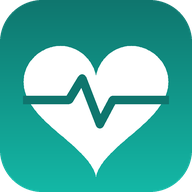
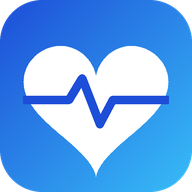
Cambio de identidad: MedicSoft → Latidia, paleta Azul océano
- Nombre visible, título, manifiesto, pantalla de login, reporte PDF,
  notificaciones y nombres de archivos exportados
- Paleta Azul océano (#1d4ed8 / #38bdf8) en modo claro y oscuro,
  neutros gris azulado; íconos PNG, favicon y theme-color regenerados
- Identificadores internos sin cambios para preservar datos: base
  IndexedDB, rutas de Firestore, formato de respaldo, UID de eventos .ics
- Service worker: caché latidia-v5

diff --git a/js/app.js b/js/app.js
@@ -1,4 +1,4 @@
-/* MedicSoft — aplicación principal */
+/* Latidia — aplicación principal */
 (function () {
   'use strict';
   const { DB, pad, dateKey, timeKey, at, uid, dosesForDate, bpCategory } = MS;
@@ -197,7 +197,7 @@
     const changed = currentRoute !== route.id;
     currentRoute = route.id;
     $('#pageTitle').textContent = route.title;
-    document.title = `${route.title} · MedicSoft`;
+    document.title = `${route.title} · Latidia`;
     $$('[data-route]').forEach(a => a.classList.toggle('active', a.dataset.route === route.id));
     const view = $('#view');
     view.innerHTML = route.render();
@@ -235,7 +235,7 @@
       banners.push(`<div class="banner">${icon('bell')}<div class="item-body"><b>Activa las notificaciones</b><div class="small muted">Para recibir recordatorios de medicamentos, citas y tomas de presión.</div></div><button class="btn small" data-act="enable-notif">Activar</button></div>`);
     }
     if (!isStandalone() && state.installEvt) {
-      banners.push(`<div class="banner">${icon('install')}<div class="item-body"><b>Instala MedicSoft</b><div class="small muted">Acceso rápido y notificaciones en tu celular o computadora.</div></div><button class="btn small" data-act="install">Instalar</button></div>`);
+      banners.push(`<div class="banner">${icon('install')}<div class="item-body"><b>Instala Latidia</b><div class="small muted">Acceso rápido y notificaciones en tu celular o computadora.</div></div><button class="btn small" data-act="install">Instalar</button></div>`);
     }
 
     const cat = last && bpCategory(last.sys, last.dia);
@@ -251,7 +251,7 @@
             <div class="big num" style="margin:14px 0 6px">${last.sys}/${last.dia} <small>mmHg</small></div>
             <div class="row">${last.pulse ? `<span class="chip">${icon('pulse')} ${last.pulse} lpm</span>` : ''}<span class="chip"><span class="dot" style="color:${cat.color}"></span>${cat.label}</span></div>`
             : `<div style="margin:18px 0" class="muted">Aún no tienes registros. Registra tu primera toma.</div>`}
-          <div style="margin-top:16px;position:relative;z-index:1"><button class="btn" style="background:#fff;color:#0f766e" data-act="new-vital">${icon('plus')} Registrar toma</button></div>
+          <div style="margin-top:16px;position:relative;z-index:1"><button class="btn" style="background:#fff;color:#1d4ed8" data-act="new-vital">${icon('plus')} Registrar toma</button></div>
         </div>
         <div class="grid stats">
           <div class="card stat">${statIc('trend', 'var(--sys)')}<div><div class="label">Promedio 7 días</div><div class="value num">${wBP.length ? `${avg(wBP.map(v => v.sys))}/${avg(wBP.map(v => v.dia))}` : '—'}</div></div></div>
@@ -732,7 +732,7 @@
   const icsLocal = d => `${d.getFullYear()}${pad(d.getMonth() + 1)}${pad(d.getDate())}T${pad(d.getHours())}${pad(d.getMinutes())}00`;
   const icsStamp = () => new Date().toISOString().replace(/[-:]/g, '').replace(/\.\d+/, '');
   const alarm = (trigger, text) => ['BEGIN:VALARM', 'ACTION:DISPLAY', `TRIGGER:${trigger}`, `DESCRIPTION:${icsEsc(text)}`, 'END:VALARM'];
-  const icsWrap = events => ['BEGIN:VCALENDAR', 'VERSION:2.0', 'PRODID:-//MedicSoft//ES', 'CALSCALE:GREGORIAN', ...events.flat(), 'END:VCALENDAR'].join('\r\n');
+  const icsWrap = events => ['BEGIN:VCALENDAR', 'VERSION:2.0', 'PRODID:-//Latidia//ES', 'CALSCALE:GREGORIAN', ...events.flat(), 'END:VCALENDAR'].join('\r\n');
 
   function apptEvent(a) {
     const s = at(a.date, a.time || '09:00'), e = new Date(s.getTime() + 3600000);
@@ -1020,7 +1020,7 @@
       <div class="stack-v">
         <div class="card">
           <div class="card-head"><h3>${icon('install')} Instalación</h3><span class="chip" style="${isStandalone() ? 'color:var(--ok)' : ''}">${isStandalone() ? 'Instalada' : 'En navegador'}</span></div>
-          ${state.installEvt ? `<button class="btn block" data-act="install">${icon('install')} Instalar MedicSoft</button>` :
+          ${state.installEvt ? `<button class="btn block" data-act="install">${icon('install')} Instalar Latidia</button>` :
             isStandalone() ? '<div class="muted small">Estás usando la app instalada. ✅</div>' :
             `<div class="small muted">${isIOS() ? 'Safari: <b>Compartir</b> → <b>Agregar a pantalla de inicio</b>.' : 'Chrome/Edge: menú ⋮ → <b>Instalar aplicación</b> o el ícono de instalar en la barra de direcciones.'}</div>`}
         </div>
@@ -1039,7 +1039,7 @@
             <button class="btn ghost small" style="color:var(--danger)" data-act="wipe">${icon('trash')} Borrar todo</button></div>
         </div>
         <div class="card small muted">
-          <b style="color:var(--text)">MedicSoft</b> es una herramienta de registro personal y no es un dispositivo médico. Ante valores alarmantes o síntomas, consulta a tu médico o acude a urgencias.
+          <b style="color:var(--text)">Latidia</b> es una herramienta de registro personal y no es un dispositivo médico. Ante valores alarmantes o síntomas, consulta a tu médico o acude a urgencias.
         </div>
       </div>
     </div>`;
@@ -1123,7 +1123,7 @@
     'dose-skip': async el => { await MS.markTaken(el.dataset.key, 'skipped'); await load(); render(); },
     'meds-ics': () => {
       const active = state.meds.filter(m => m.active !== false);
-      download('medicamentos-medicsoft.ics', icsWrap(active.flatMap(medEvents)), 'text/calendar');
+      download('medicamentos-latidia.ics', icsWrap(active.flatMap(medEvents)), 'text/calendar');
       toast('Abre el archivo para añadir las alarmas a tu calendario');
     },
 
@@ -1137,7 +1137,7 @@
     'appts-ics': () => {
       const nowKey = today() + 'T' + timeKey(new Date());
       const list = state.appts.filter(a => !a.done && (a.date + 'T' + (a.time || '23:59')) >= nowKey);
-      download('citas-medicsoft.ics', icsWrap(list.map(apptEvent)), 'text/calendar');
+      download('citas-latidia.ics', icsWrap(list.map(apptEvent)), 'text/calendar');
     },
     calsel: el => {
       state.calSel = el.dataset.d;
@@ -1164,7 +1164,7 @@
     'enable-notif': enableNotifications,
     'test-notif': async () => {
       const reg = await navigator.serviceWorker.ready;
-      await reg.showNotification('🔔 Notificación de prueba', { body: '¡Las notificaciones de MedicSoft funcionan!', icon: 'icons/icon-192.png', badge: 'icons/badge-96.png', tag: 'test' });
+      await reg.showNotification('🔔 Notificación de prueba', { body: '¡Las notificaciones de Latidia funcionan!', icon: 'icons/icon-192.png', badge: 'icons/badge-96.png', tag: 'test' });
     },
     install: async () => {
       if (!state.installEvt) return;
@@ -1177,7 +1177,7 @@
       if (!(await confirmDlg('Cerrar sesión', 'Tus datos seguirán guardados en tu cuenta. En este dispositivo se borrará la copia local y dejarás de recibir recordatorios hasta que vuelvas a iniciar sesión.', 'Cerrar sesión'))) return;
       await Cloud.signOut();
     },
-    backup: async () => download(`respaldo-medicsoft-${today()}.json`, JSON.stringify(await DB.exportAll(), null, 1), 'application/json'),
+    backup: async () => download(`respaldo-latidia-${today()}.json`, JSON.stringify(await DB.exportAll(), null, 1), 'application/json'),
     demo: async () => {
       if (!(await confirmDlg('Datos de ejemplo', 'Se agregarán 30 días de lecturas, 2 medicamentos y 2 citas de ejemplo a tus datos.', 'Agregar'))) return;
       await loadDemo(); await load(); render(); toast('Datos de ejemplo cargados', 'check');
@@ -1277,7 +1277,7 @@
     const logIc = { med: 'pill', bp: 'heart', appt: 'calendar' };
     return `
       ${perm !== 'granted' ? `<div class="banner ${perm === 'denied' ? 'warn' : ''}">${icon('bell')}<div class="item-body small">${
-        perm === 'denied' ? 'Las notificaciones están bloqueadas. Habilítalas en la configuración del navegador o del iPhone (Ajustes → Notificaciones → MedicSoft).'
+        perm === 'denied' ? 'Las notificaciones están bloqueadas. Habilítalas en la configuración del navegador o del iPhone (Ajustes → Notificaciones → Latidia).'
         : perm === 'unsupported' ? (isIOS() && !isStandalone() ? 'En iPhone instala primero la app en la pantalla de inicio para recibir notificaciones.' : 'Este navegador no admite notificaciones.')
         : 'Activa las notificaciones para recibir tus recordatorios.'}</div>
         ${perm === 'default' ? `<button type="button" class="btn small" data-act="enable-notif">Activar</button>` : ''}</div>` : ''}
@@ -1373,7 +1373,7 @@
     const m = authMode;
     $('#auth').innerHTML = `
       <div class="card auth-card">
-        <div class="auth-brand"><span class="brand-logo">${LOGO}</span><h1>MedicSoft</h1>
+        <div class="auth-brand"><span class="brand-logo">${LOGO}</span><h1>Latidia</h1>
           <div class="muted small">Tu presión, medicamentos y citas médicas, sincronizados en todos tus dispositivos.</div></div>
         ${m === 'reset'
           ? `<h2 style="margin-bottom:6px">Recuperar contraseña</h2><p class="small muted" style="margin-top:0">Te enviaremos un enlace a tu correo para crear una nueva contraseña.</p>`
@@ -1441,7 +1441,7 @@
 
   function renderCloudError() {
     $('#auth').innerHTML = `<div class="card auth-card" style="text-align:center">
-      <div class="auth-brand"><span class="brand-logo">${LOGO}</span><h1>MedicSoft</h1></div>
+      <div class="auth-brand"><span class="brand-logo">${LOGO}</span><h1>Latidia</h1></div>
       <p><b>No se pudo conectar</b></p>
       <p class="muted small">Necesitas conexión a internet la primera vez que abres la app para iniciar sesión.</p>
       <button class="btn block" onclick="location.reload()">Reintentar</button></div>`;

diff --git a/css/styles.css b/css/styles.css
@@ -1,14 +1,14 @@
 /* ============ Tokens ============ */
 :root {
-  --bg: #f3f6f7;
+  --bg: #f3f6fa;
   --surface: #ffffff;
-  --surface-2: #eef3f4;
-  --border: #dde5e7;
-  --text: #0f1f23;
-  --muted: #5b6d72;
-  --primary: #0f766e;
-  --primary-2: #14b8a6;
-  --primary-soft: #d9f3ef;
+  --surface-2: #eef2f8;
+  --border: #dde3ec;
+  --text: #0f1a2b;
+  --muted: #5a6678;
+  --primary: #1d4ed8;
+  --primary-2: #38bdf8;
+  --primary-soft: #dbeafe;
   --on-primary: #ffffff;
   --danger: #dc2626;
   --danger-soft: #fde6e6;
@@ -23,7 +23,7 @@
   --bp-h2: #dc2626;
   --bp-crisis: #7f1d1d;
   --bp-low: #0284c7;
-  --shadow: 0 1px 2px rgba(15, 31, 35, .05), 0 4px 16px rgba(15, 31, 35, .06);
+  --shadow: 0 1px 2px rgba(15, 26, 43, .05), 0 4px 16px rgba(15, 26, 43, .06);
   --radius: 16px;
   --radius-sm: 10px;
   --nav-h: 64px;
@@ -31,9 +31,9 @@
 }
 @media (prefers-color-scheme: dark) {
   :root:not([data-theme="light"]) {
-    --bg: #0b1416; --surface: #122023; --surface-2: #19292d; --border: #25383d;
-    --text: #e6f0f1; --muted: #93a8ad; --primary: #2dd4bf; --primary-2: #5eead4;
-    --primary-soft: #113b37; --on-primary: #04211e; --danger: #f87171; --danger-soft: #3b1618;
+    --bg: #0a1220; --surface: #111c2e; --surface-2: #17243a; --border: #243450;
+    --text: #e6edf7; --muted: #93a1b8; --primary: #60a5fa; --primary-2: #38bdf8;
+    --primary-soft: #172b4d; --on-primary: #06173a; --danger: #f87171; --danger-soft: #3b1618;
     --sys: #fb7185; --dia: #60a5fa; --pulse: #c084fc;
     --bp-normal: #4ade80; --bp-elev: #facc15; --bp-h1: #fb923c; --bp-h2: #f87171; --bp-crisis: #fca5a5; --bp-low: #38bdf8;
     --shadow: 0 1px 2px rgba(0,0,0,.3), 0 4px 16px rgba(0,0,0,.25);
@@ -41,9 +41,9 @@
   }
 }
 :root[data-theme="dark"] {
-  --bg: #0b1416; --surface: #122023; --surface-2: #19292d; --border: #25383d;
-  --text: #e6f0f1; --muted: #93a8ad; --primary: #2dd4bf; --primary-2: #5eead4;
-  --primary-soft: #113b37; --on-primary: #04211e; --danger: #f87171; --danger-soft: #3b1618;
+  --bg: #0a1220; --surface: #111c2e; --surface-2: #17243a; --border: #243450;
+  --text: #e6edf7; --muted: #93a1b8; --primary: #60a5fa; --primary-2: #38bdf8;
+  --primary-soft: #172b4d; --on-primary: #06173a; --danger: #f87171; --danger-soft: #3b1618;
   --sys: #fb7185; --dia: #60a5fa; --pulse: #c084fc;
   --bp-normal: #4ade80; --bp-elev: #facc15; --bp-h1: #fb923c; --bp-h2: #f87171; --bp-crisis: #fca5a5; --bp-low: #38bdf8;
   --shadow: 0 1px 2px rgba(0,0,0,.3), 0 4px 16px rgba(0,0,0,.25);
@@ -193,7 +193,7 @@ a { color: var(--primary); }
 .fab {
   position: fixed; right: 20px; bottom: calc(var(--nav-h) + 16px + env(safe-area-inset-bottom)); z-index: 15;
   width: 56px; height: 56px; border-radius: 18px; border: 0; background: var(--primary); color: var(--on-primary);
-  display: none; place-items: center; box-shadow: 0 6px 20px rgba(15,118,110,.4); cursor: pointer;
+  display: none; place-items: center; box-shadow: 0 6px 20px rgba(29,78,216,.35); cursor: pointer;
 }
 .fab .ic { width: 26px; height: 26px; }
 @media (max-width: 860px) { .fab { display: grid; } .hide-mobile { display: none !important; } }
@@ -349,7 +349,7 @@ input.big { font-size: 1.6rem; font-weight: 700; text-align: center; }
   @page { margin: 14mm; size: A4; }
   :root, :root[data-theme="dark"] {
     --bg: #fff; --surface: #fff; --surface-2: #f3f5f6; --border: #d5dcde; --text: #111; --muted: #555;
-    --sys: #e11d48; --dia: #2563eb; --pulse: #9333ea; --primary: #0f766e;
+    --sys: #e11d48; --dia: #2563eb; --pulse: #9333ea; --primary: #1d4ed8;
     --bp-normal: #16a34a; --bp-elev: #ca8a04; --bp-h1: #ea580c; --bp-h2: #dc2626; --bp-crisis: #7f1d1d; --bp-low: #0284c7;
     --shadow: none; color-scheme: light;
   }
@@ -379,7 +379,7 @@ input.big { font-size: 1.6rem; font-weight: 700; text-align: center; }
 .auth[hidden] { display: none; }
 .auth-card { width: min(420px, 100%); padding: 28px 24px; }
 .auth-brand { display: flex; flex-direction: column; align-items: center; gap: 10px; text-align: center; margin-bottom: 22px; }
-.auth-brand .brand-logo { width: 60px; height: 60px; border-radius: 18px; box-shadow: 0 10px 30px rgba(15,118,110,.35); }
+.auth-brand .brand-logo { width: 60px; height: 60px; border-radius: 18px; box-shadow: 0 10px 30px rgba(29,78,216,.3); }
 .auth-brand .brand-logo svg { width: 34px; height: 34px; }
 .auth-brand h1 { font-size: 1.6rem; }
 .auth form { display: flex; flex-direction: column; gap: 14px; }
@@ -436,7 +436,7 @@ input[type="date"]::-webkit-calendar-picker-indicator { margin-left: auto; }
 }
 
 /* Barra superior: línea sutil al desplazarse */
-.topbar.scrolled { border-bottom-color: var(--border); box-shadow: 0 2px 10px rgba(15, 31, 35, .05); }
+.topbar.scrolled { border-bottom-color: var(--border); box-shadow: 0 2px 10px rgba(15, 26, 43, .05); }
 
 /* Centro de notificaciones */
 #bellBtn { position: relative; }

diff --git a/js/report-pdf.js b/js/report-pdf.js
@@ -1,4 +1,4 @@
-/* MedicSoft — reporte PDF profesional (tamaño carta) con jsPDF */
+/* Latidia — reporte PDF profesional (tamaño carta) con jsPDF */
 (function (g) {
   'use strict';
   const LIBS = [
@@ -24,8 +24,8 @@
 
   // ---------- Estilo ----------
   const C = {
-    primary: [15, 118, 110], primarySoft: [217, 243, 239], text: [17, 31, 35], muted: [95, 110, 115],
-    line: [214, 222, 224], zebra: [246, 248, 249], box: [243, 247, 248],
+    primary: [29, 78, 216], primarySoft: [219, 234, 254], text: [15, 26, 43], muted: [90, 102, 120],
+    line: [214, 221, 232], zebra: [245, 248, 252], box: [241, 245, 251],
     sys: [225, 29, 72], dia: [37, 99, 235], pulse: [147, 51, 234], band: [222, 244, 228]
   };
   const CAT_RGB = { normal: [22, 163, 74], elev: [202, 138, 4], h1: [234, 88, 12], h2: [220, 38, 38], crisis: [127, 29, 29], low: [2, 132, 199] };
@@ -42,7 +42,7 @@
     };
     const W = doc.internal.pageSize.getWidth(), H = doc.internal.pageSize.getHeight();
     const M = 16, CW = W - 2 * M, BOTTOM = H - 18;
-    doc.setProperties({ title: L(R.title), subject: 'Reporte de presión arterial', author: L(R.patient || 'MedicSoft'), creator: 'MedicSoft' });
+    doc.setProperties({ title: L(R.title), subject: 'Reporte de presión arterial', author: L(R.patient || 'Latidia'), creator: 'Latidia' });
 
     const color = (fn, c) => doc[fn](c[0], c[1], c[2]);
     const font = (size, style = 'normal', c = C.text) => { doc.setFont('helvetica', style); doc.setFontSize(size); color('setTextColor', c); };
@@ -66,9 +66,9 @@
     doc.triangle(M + 2.85, 14.3, M + 13.15, 14.3, M + 8, 19.8, 'F');
     doc.setDrawColor(255, 255, 255); doc.setLineWidth(0.7);
     doc.lines([[2, 0], [0.9, -1.6], [1.5, 3.2], [0.9, -1.6], [2.4, 0]], M + 3.5, 14.2);
-    font(17, 'bold', [255, 255, 255]); doc.text('MedicSoft', M + 20, 14.5);
-    font(9.5, 'normal', [220, 245, 241]); doc.text(L(R.title), M + 20, 20.5);
-    font(8, 'normal', [220, 245, 241]);
+    font(17, 'bold', [255, 255, 255]); doc.text('Latidia', M + 20, 14.5);
+    font(9.5, 'normal', [219, 234, 254]); doc.text(L(R.title), M + 20, 20.5);
+    font(8, 'normal', [219, 234, 254]);
     doc.text(L('Generado: ' + R.generated), W - M, 14.5, { align: 'right' });
     doc.text(L('Periodo: ' + R.periodLabel), W - M, 20.5, { align: 'right' });
     y = 38;
@@ -201,7 +201,7 @@
       doc.setPage(i);
       color('setDrawColor', C.line); doc.setLineWidth(0.3); doc.line(M, H - 14, W - M, H - 14);
       font(7, 'normal', C.muted);
-      doc.text(L(`MedicSoft · ${R.patient || ''}${R.patient ? ' · ' : ''}${R.periodLabel}`), M, H - 10);
+      doc.text(L(`Latidia · ${R.patient || ''}${R.patient ? ' · ' : ''}${R.periodLabel}`), M, H - 10);
       doc.text('Documento informativo generado por el paciente; no sustituye la valoración de un profesional de la salud.', M, H - 6.5);
       font(8, 'bold', C.muted); doc.text(`Página ${i} de ${pages}`, W - M, H - 10, { align: 'right' });
     }

diff --git a/index.html b/index.html
@@ -3,14 +3,14 @@
 <head>
   <meta charset="utf-8">
   <meta name="viewport" content="width=device-width, initial-scale=1, viewport-fit=cover">
-  <title>MedicSoft</title>
+  <title>Latidia</title>
   <meta name="description" content="Monitoreo personal de presión arterial, pulso, medicamentos y citas médicas.">
-  <meta name="theme-color" content="#0f766e" media="(prefers-color-scheme: light)">
-  <meta name="theme-color" content="#0b1416" media="(prefers-color-scheme: dark)">
+  <meta name="theme-color" content="#1d4ed8" media="(prefers-color-scheme: light)">
+  <meta name="theme-color" content="#0a1220" media="(prefers-color-scheme: dark)">
   <meta name="apple-mobile-web-app-capable" content="yes">
   <meta name="mobile-web-app-capable" content="yes">
   <meta name="apple-mobile-web-app-status-bar-style" content="black-translucent">
-  <meta name="apple-mobile-web-app-title" content="MedicSoft">
+  <meta name="apple-mobile-web-app-title" content="Latidia">
   <link rel="manifest" href="manifest.webmanifest">
   <link rel="icon" href="icons/favicon.svg" type="image/svg+xml">
   <link rel="apple-touch-icon" href="icons/icon-192.png">
@@ -25,7 +25,7 @@
     <aside class="sidebar">
       <div class="brand">
         <span class="brand-logo"><svg viewBox="0 0 24 24" fill="none" stroke="currentColor" stroke-width="2.2" stroke-linecap="round" stroke-linejoin="round"><path d="M19.5 12.6 12 20l-7.5-7.4A4.9 4.9 0 0 1 12 6.3a4.9 4.9 0 0 1 7.5 6.3Z"/><path d="M4 12h4l1.5-2.5 2.5 5 1.5-2.5H20"/></svg></span>
-        <span>MedicSoft</span>
+        <span>Latidia</span>
       </div>
       <nav class="nav" id="nav"></nav>
       <div class="sidebar-foot">

diff --git a/sw.js b/sw.js
@@ -1,7 +1,7 @@
-/* MedicSoft — service worker: caché offline + notificaciones */
+/* Latidia — service worker: caché offline + notificaciones */
 importScripts('js/core.js');
 
-const CACHE = 'medicsoft-v4';
+const CACHE = 'latidia-v5';
 // Librerías externas versionadas (no cambian): caché primero
 const CDN = ['https://www.gstatic.com/firebasejs/', 'https://cdn.jsdelivr.net/npm/'];
 const ASSETS = [
@@ -70,7 +70,7 @@ self.addEventListener('message', e => {
 self.addEventListener('push', e => {
   let d = {};
   try { d = e.data ? e.data.json() : {}; } catch (_) { d = { body: e.data && e.data.text() }; }
-  e.waitUntil(self.registration.showNotification(d.title || 'MedicSoft', {
+  e.waitUntil(self.registration.showNotification(d.title || 'Latidia', {
     body: d.body || '', icon: 'icons/icon-192.png', badge: 'icons/badge-96.png', data: d.data || {}
   }).then(() => MS.runReminders(self.registration)));
 });

diff --git a/js/cloud.js b/js/cloud.js
@@ -1,4 +1,4 @@
-/* MedicSoft — autenticación y sincronización con Firebase.
+/* Latidia — autenticación y sincronización con Firebase.
    Firestore es la fuente de verdad; IndexedDB (MS.DB) es una copia local que usa la app
    y el service worker (recordatorios en segundo plano y uso sin conexión). */
 (function (g) {

diff --git a/js/core.js b/js/core.js
@@ -1,4 +1,4 @@
-/* MedicSoft — núcleo compartido (página + service worker).
+/* Latidia — núcleo compartido (página + service worker).
    Script clásico: se carga con <script> en la página y con importScripts() en sw.js */
 (function (g) {
   'use strict';

diff --git a/README.md b/README.md
@@ -1,4 +1,4 @@
-# MedicSoft — Monitoreo personal de salud
+# Latidia — Monitoreo personal de salud
 
 App web progresiva (PWA) para registrar **presión arterial, pulso y otros signos vitales**, controlar la **toma de medicamentos**, llevar un **calendario de citas médicas y exámenes**, generar **reportes por rango de fechas** (PDF / CSV) y recibir **notificaciones** en el celular y la computadora.
 
@@ -71,4 +71,4 @@ Abre `http://localhost:5173`. (El service worker y las notificaciones requieren 
 Al publicar cambios, sube el número de `CACHE` en `sw.js` (`medicsoft-v2`, `v3`…) para que los dispositivos instalados descarguen la versión nueva.
 
 ---
-*MedicSoft es una herramienta de registro personal, no un dispositivo médico. Ante valores alarmantes o síntomas, consulta a tu médico.*
+*Latidia es una herramienta de registro personal, no un dispositivo médico. Ante valores alarmantes o síntomas, consulta a tu médico.*
